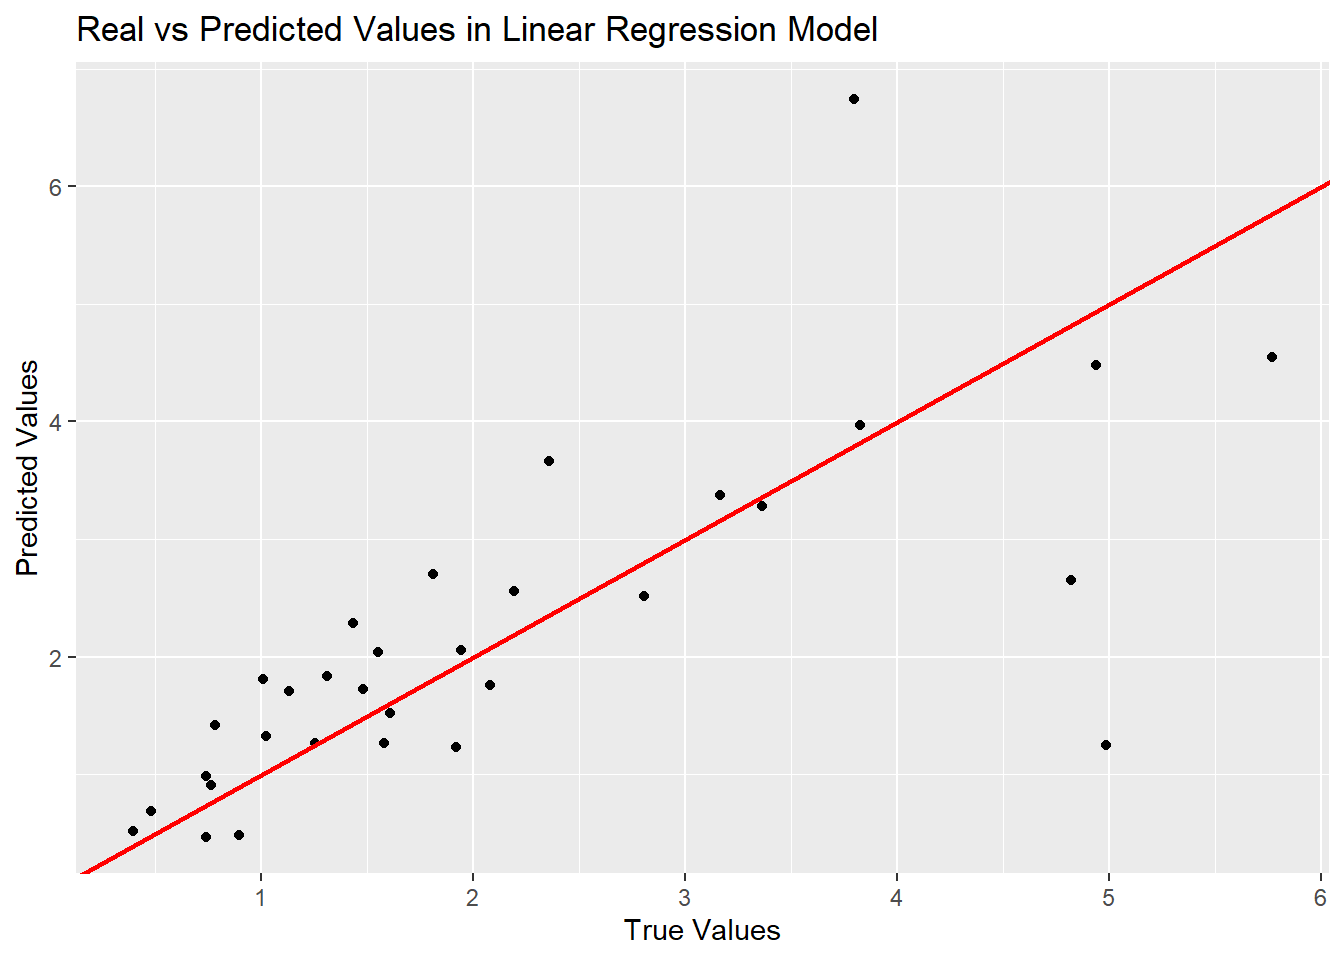
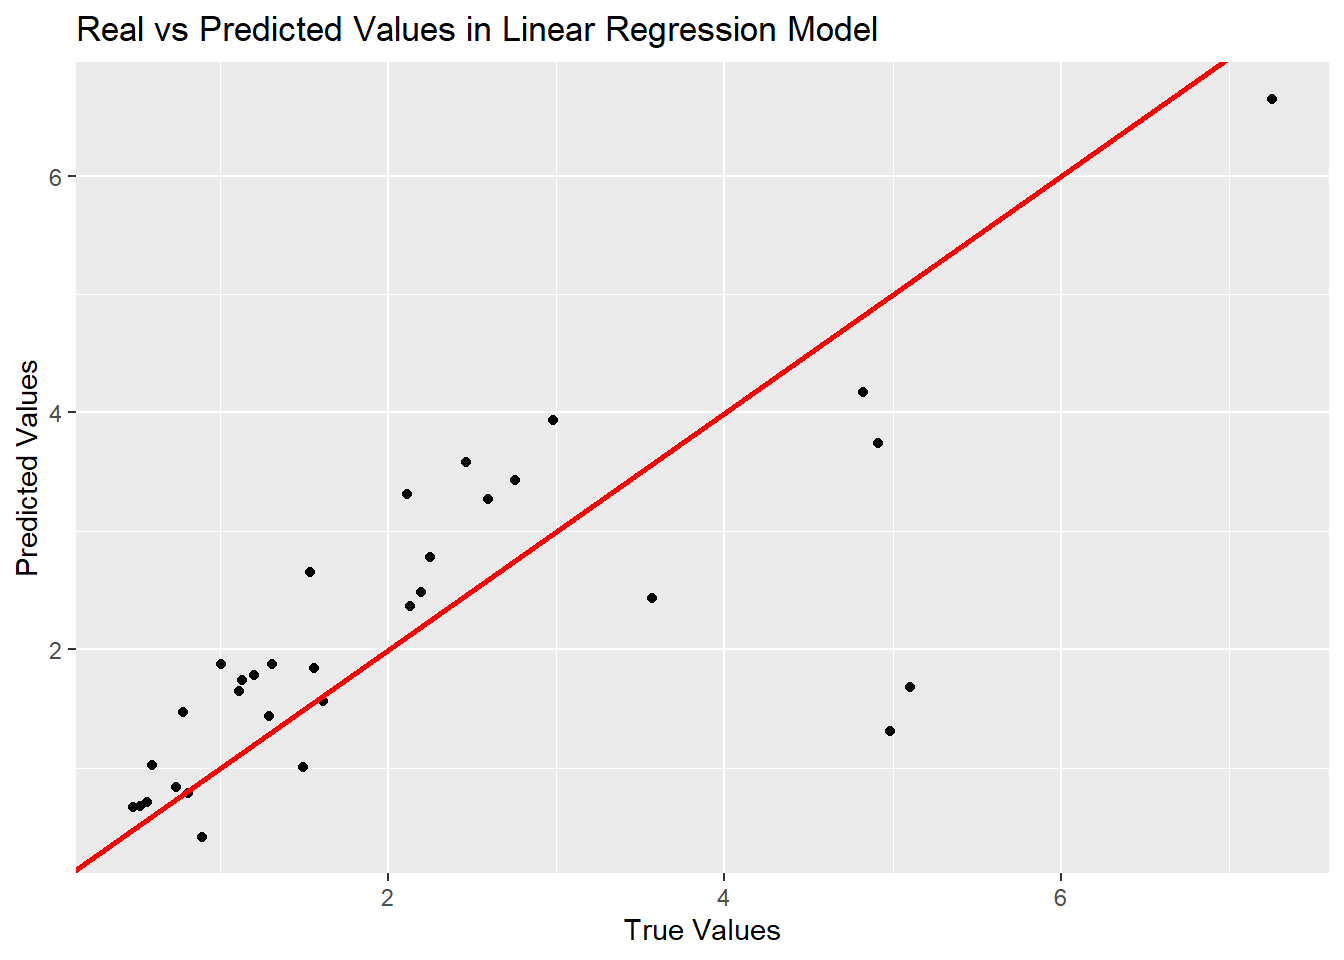
Finished written report

diff --git a/PranavProject/WrittenReport.html b/PranavProject/WrittenReport.html
@@ -66,6 +66,7 @@ ul.task-list li input[type="checkbox"] {
 <section id="background" class="level2">
 <h2 class="anchored" data-anchor-id="background">Background</h2>
 <p>The average global temperature has skyrocketed over the years, caused by excess carbon emissions and waste. This is primarily caused by a global ecological footprint that significantly exceeds our bio-capacity, causing us to deplete our resources as well as release waste and carbon into the environment. Because some countries contribute to this unsustainable behavior more than others, it is important to explore any possible trends or reasons that may cause this.</p>
+<p>Two important metrics that we will use repeatedly to measure sustainability of countries are “Number of Earths Required” and “Ecological Reserve”. The number of earths required represents the number of earths we would need to be sustainable if everyone lived like the average person in this country. The ecological reserve is the resources/capacity a country has minus how much it uses, measured in hectares per person.</p>
 </section>
 <section id="results" class="level2">
 <h2 class="anchored" data-anchor-id="results">Results</h2>
@@ -80,7 +81,7 @@ ul.task-list li input[type="checkbox"] {
 </div>
 </div>
 </div>
-<p>Figure 1. The correlation between GDP Per Capita and Ecological Reserve with Human Development Index</p>
+<p><strong>Figure 1</strong>. The correlation between GDP Per Capita and Ecological Reserve with Human Development Index</p>
 <p>This graph shows that as GDP Per Capita increases, the ecological reserve tends to decrease, showing the countries with a greater per capita GDP are generally more unsustainable.</p>
 <div class="cell">
 <div class="cell-output-display">
@@ -91,7 +92,7 @@ ul.task-list li input[type="checkbox"] {
 </div>
 </div>
 </div>
-<p>Figure 2. The correlation between GDP Per Capita and Number of Earths Required with Human Development Index</p>
+<p><strong>Figure 2</strong>. The correlation between GDP Per Capita and Number of Earths Required with Human Development Index</p>
 <p>This graph also supports a similar conclusion to Figure 1. Countries with a higher per capita GDP have an average lifestyle that requires a greater amount of earths, pointing to unsustainability.</p>
 <div class="cell">
 <div class="cell-output-display">
@@ -102,7 +103,7 @@ ul.task-list li input[type="checkbox"] {
 </div>
 </div>
 </div>
-<p>Figure 3. The correlation between GDP and Earths Required when GDP is split into groups by quartile. The groups are in order of increasing GDP, with Group 1 having the least GDP and Group 4 having the greatest GDP.</p>
+<p><strong>Figure 3</strong>. The correlation between GDP and Earths Required when GDP is split into groups by quartile. The groups are in order of increasing GDP, with Group 1 having the least GDP and Group 4 having the greatest GDP.</p>
 <p>While Figure 1 and Figure 2 use GDP per capita as a their metric, Figure 3 uses GDP. The data had to be grouped due to some outlier data points, but this graph also shows that countries with stronger economies tend to require more earths.</p>
 <div class="cell">
 <div class="cell-output-display">
@@ -113,7 +114,7 @@ ul.task-list li input[type="checkbox"] {
 </div>
 </div>
 </div>
-<p>Figure 4. Box Plots of Various Income Groups and their respective Earths Required</p>
+<p><strong>Figure 4</strong>. Box Plots of Various Income Groups and their respective Earths Required</p>
 <p>While figures until now have relied on GDP per capita and GDP metrics, this graph is based on four Income Groups that were defined through the original dataset.</p>
 <p>LI = Low Income, LM = Lower Middle Income, UM = Upper Middle Income, HI = High Income, while the NA category contains countries who were not assigned a group.</p>
 <p>This collection of box plots supports the same conclusions as Figures 1-3, showing that countries with superior financial status tend to be more unsustainable.</p>
@@ -126,7 +127,7 @@ ul.task-list li input[type="checkbox"] {
 </div>
 </div>
 </div>
-<p>Figure 5. Box Plots of Various Income Groups and their respective Ecological Reserve</p>
+<p><strong>Figure 5</strong>. Box Plots of Various Income Groups and their respective Ecological Reserve</p>
 <p>Just like Figure 4, this graph uses income groups to demonstrate the more prominent overuse of resources by countries with a higher income. Figures 1-5 have so far supported that the Earths Required and Ecological Reserve are highly similar in terms of how they are reflected by the financial status of countries.</p>
 <div class="cell">
 <div class="cell-output-display">
@@ -137,7 +138,7 @@ ul.task-list li input[type="checkbox"] {
 </div>
 </div>
 </div>
-<p>Figure 6. Box Plots of Various Regions and their respective Ecological Reserve</p>
+<p><strong>Figure 6</strong>. Box Plots of Various Regions and their respective Ecological Reserve</p>
 <p>Instead of directly focusing on finances, Figure 6 examines the correlation between countries’ regions and their ecological reserve through a collection of boxplots for each region. The regions that tend towards being the most unsustainable are Central Asia, Europe, and North America.</p>
 <div class="cell">
 <div class="cell-output-display">
@@ -148,7 +149,7 @@ ul.task-list li input[type="checkbox"] {
 </div>
 </div>
 </div>
-<p>Figure 7. Box Plots of Various Regions and their respective Earths Required</p>
+<p><strong>Figure 7</strong>. Box Plots of Various Regions and their respective Earths Required</p>
 <p>This graph is similar to Figure 6 in that it examines sustainability by the region metric. The most unsustainable regions by Earths Required are North America and Europe. When comparing Figure 6 and Figure 7, we can see one of the first times that the metrics of Earths Required and Ecological Reserve present a slighlty different conclusion, as the regions that are more sustainable than others changes depending on which metric we chose.</p>
 </section>
 <section id="hypothesis-testing" class="level3">
@@ -263,13 +264,14 @@ Signif. codes:  0 '***' 0.001 '**' 0.01 '*' 0.05 '.' 0.1 ' ' 1
 </div>
 </div>
 <div class="cell-output cell-output-stdout">
-<pre><code>R squared value: 0.704489</code></pre>
+<pre><code>R squared value: 0.6969662</code></pre>
 </div>
 <div class="cell-output cell-output-stdout">
-<pre><code>Mean Squared Error: 1.114406</code></pre>
+<pre><code>Mean Squared Error: 1.195069</code></pre>
 </div>
 </div>
-<p>Depending on the split, the R squared value for this model can range from 0.5 to 0.9 and the Mean Squared Error can range from 0.6 to 1.3. Overall, this model shows mediocre accuracy. However, it provest that there is a trend in the data.</p>
+<p><strong>Figure 8</strong>. A graph of true vs predicted values of Earths Required from the Logistic Regression.</p>
+<p>Depending on the split, the R squared value for this model can range from 0.5 to 0.9 and the Mean Squared Error can range from 0.35 to 1.3. Overall, this model shows mediocre accuracy. However, it provest that there is a trend in the data.</p>
 </section>
 <section id="k-nearest-neighbors" class="level4">
 <h4 class="anchored" data-anchor-id="k-nearest-neighbors">K-Nearest Neighbors</h4>
@@ -282,13 +284,13 @@ Signif. codes:  0 '***' 0.001 '**' 0.01 '*' 0.05 '.' 0.1 ' ' 1
 <pre><code>      pred
 actual   HI LI LM UM
        1  0  0  0  0
-    HI 0  6  0  2  1
-    LI 0  0  4  2  1
-    LM 0  0  2  2  5
-    UM 0  0  0  3  6</code></pre>
+    HI 1  6  0  0  2
+    LI 0  0  6  1  0
+    LM 0  0  3  3  3
+    UM 0  0  0  5  4</code></pre>
 </div>
 <div class="cell-output cell-output-stdout">
-<pre><code>Accuracy: 0.5428571</code></pre>
+<pre><code>Accuracy: 0.5714286</code></pre>
 </div>
 </div>
 <p>Depending on the split, the Confusion Matrix accuracy can range from 0.4 to 0.7. Overall, this model also shows mediocre accuracy, but it also proves that there is a real trend.</p>
@@ -297,10 +299,13 @@ actual   HI LI LM UM
 </section>
 <section id="discussion" class="level2">
 <h2 class="anchored" data-anchor-id="discussion">Discussion</h2>
-<p>While many of the graphs show a strong general trend indicating that stronger economic status leads to greater unsustainability, the use of the T-tests has shown that there is no significant correlation between the two. The T-test that uses the two HDI groups and the number of earths required results in a p-value of 0.427, which is not significant. The T-test that uses these same groups and the ecological reserve has a p-value of 0.05548, which is closer to the threshold of 0.05 but still insignificant.</p>
-<p>However, the ANOVA tests do show some significant correlations. The one that explored income groups and earths required had a P-value of 2 * 10<sup>-16</sup>, which means that there is a clear significant correlation between the income group classification and the earths required. A similar result occured from the Income group vs ecological reserve test, which had a p-value of 0.000818, which is also significant.</p>
-<p>We also compared the region and the sustainability, which also had a significant correlation, with p-values of 3.51 * 10<sup>-14</sup> and 8.19 * 10<sup>-11</sup> for the earths required and ecological reserve respectively.</p>
-<p>Additionally, we also created machine learning models to see if the trends resulted in predictable values. The first was a linear regression that would predict the earths required based on the GDP per capita. This resulted in an R<sup>2</sup> value that was around 0.6 to 0.8 depending on how the data was randomly split. Also, the K Nearest Neighbors strategy intended to predict a country’s income group based on the number of earths required and its ecological reserve. The resulting model had a confusion matrix accuracy ranging from 0.5 to 0.6. Overall, both of these models performed with mediocre correctness, and indicate a general correlation that is not strictly followed by the sampled countries.</p>
+<p>From Figures 1-5, there is an apparent trend that shows countries with a greater financial status (GDP per capita, GDP, Income Group, HDI) consistently being more unsustainable. They generally require more earths and have a lower ecological reserve. This observation indicates that there is a clear difference in the lifestyle and resource usage of these countries that leads to their lack of sustainability.</p>
+<p>Regarding region, based on the box plots in Figure 6 and Figure 7, areas that are typically considered “wealthy” by traditional standards have greater unsustainability, supporting the idea that a greater financial status leads to environmentally unfriendly practices.</p>
+<p>Through the Statistical Testing, we can see that the Human Development Index metric is not as reflective of sustainability as the income group, as it has no significant correlation to the ecological reserve. All of the other tests came out to be significant, showing that there is a major trend and thus, it is possible to initiate change to better our practices.</p>
+<p>While there were significant results, more research still needs to be done, as the dataset had some limitations. Not all values were filled, and so some countries were excluded from the testing. Additionally, although we know that wealthier countries consume more, we still need to look deeper into what resources exactly they are consuming and the causes of this. Looking deeper into the problem will thus allow us to combat the threat of climate change.</p>
+<p>The ideal solution seems to be for people within many of the countries with a greater financial status to change their lifestyle, putting a greater emphasis on sustainability; however, this is impractical as people will have to sacrifice comfort and convenience to do this, which many will be unwilling to do.</p>
+<p>One way we could combat our environmental problems is to advocate for change, pressing the government to use and encourage more sustainable practices.</p>
+<p>Although we still lack a definite plan to avert the pressing issue of climate change, it is still important to investigate potential causes for it, and thus, this research serves as one of the first steps to combat this problem.</p>
 </section>
 <section id="code-and-data-availability" class="level2">
 <h2 class="anchored" data-anchor-id="code-and-data-availability">Code and Data Availability</h2>
@@ -308,7 +313,7 @@ actual   HI LI LM UM
 </section>
 <section id="acknowledgements" class="level2">
 <h2 class="anchored" data-anchor-id="acknowledgements">Acknowledgements</h2>
-<p>I would like to acknowledge George Zhou for guiding me through this research project, helping me properly understand the data and providing me with questions to explore along my research journey. I would also like to thank Shruti M and Sarah Parker, who helped teach me the R language and answered countless programming questions throughout my research process.</p>
+<p>I would like to acknowledge George Zhou for guiding me through this research project, helping me properly understand the data and providing me with questions to explore along my research journey. I would also like to thank Shruti M and Sarah Parker, who helped teach me the R language and answered countless programming questions throughout my research process. Also, thanks to my lab group members for supporting me throughout.</p>
 </section>
 
 </main>
